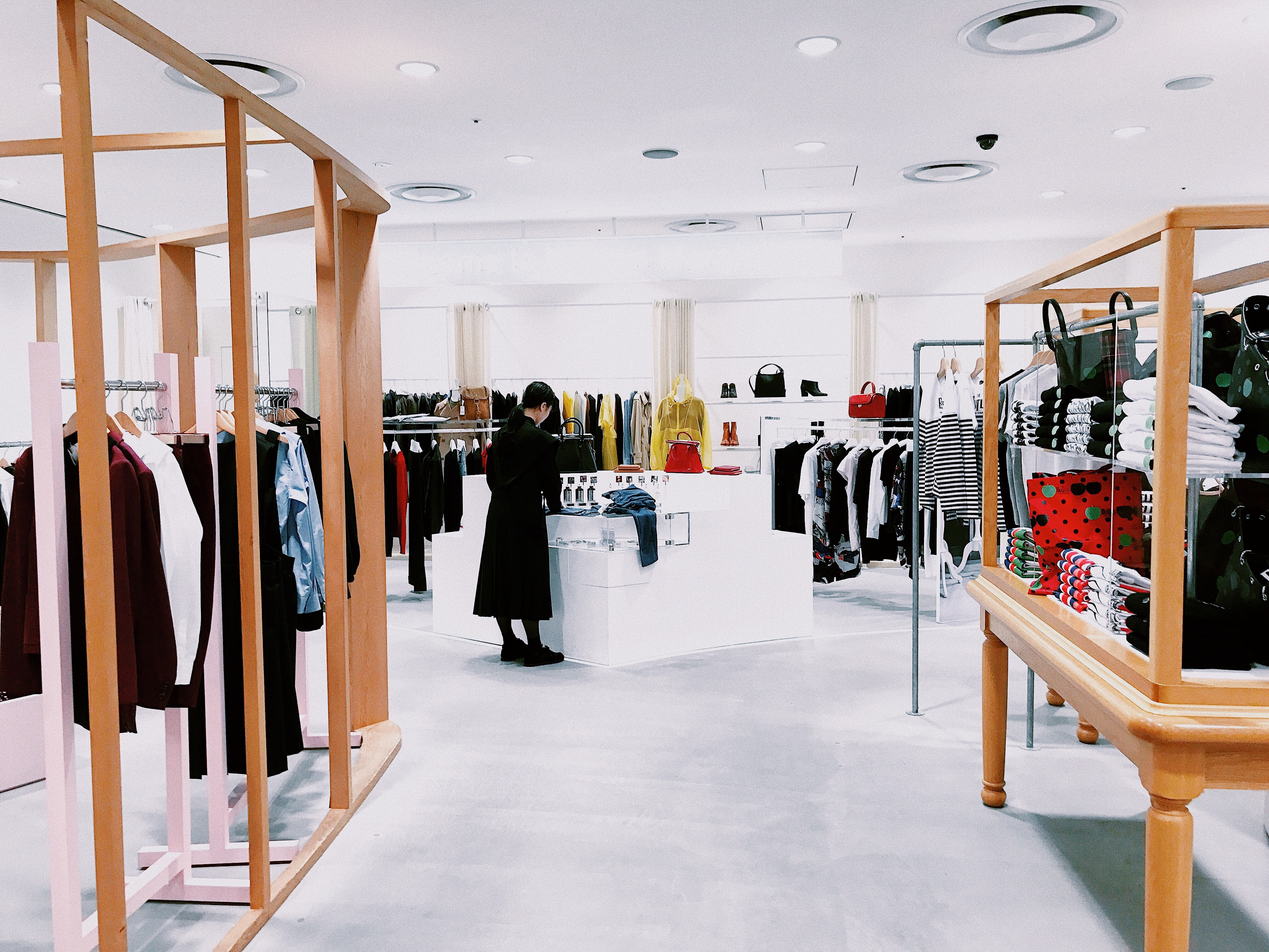
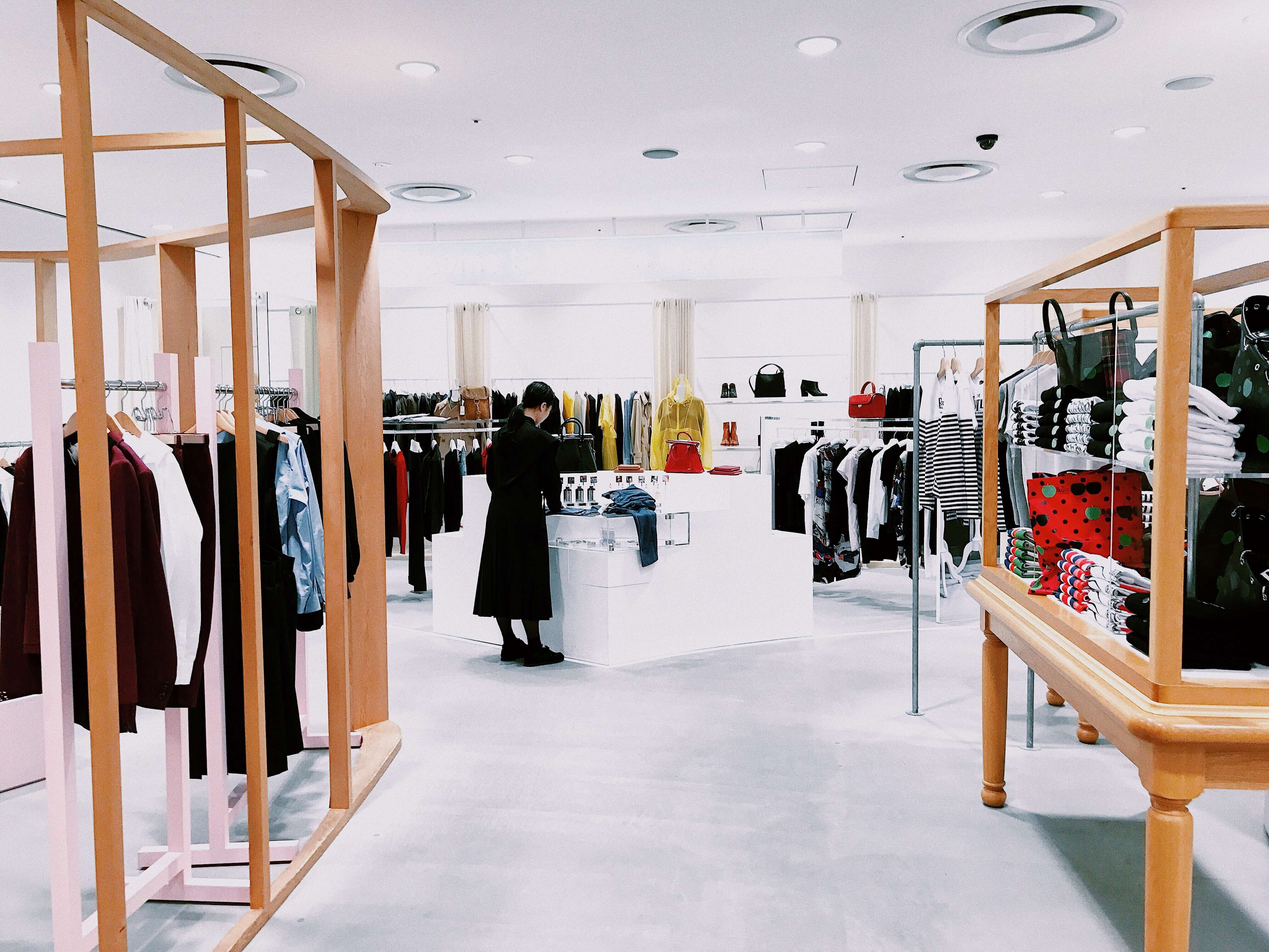
resized img and margin for nav link

Changed region(s): [[0.8373, 0.5906, 0.8683, 0.6217]]

diff --git a/css/style.css b/css/style.css
@@ -799,3 +799,7 @@ body {
     color: black;
   }
 }
+
+#my-nav {
+  margin-left: 2.5rem;
+}
